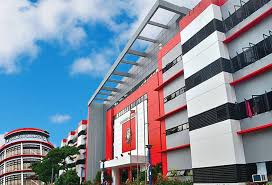
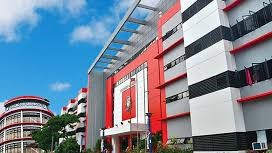
Fix Bannner in About

diff --git a/src/Components/About/Experience.jsx b/src/Components/About/Experience.jsx
@@ -21,27 +21,27 @@ const Experience = ({ work1Pic, work2Pic, className="" }) => {
               isExpanded[0] ? "" : "line-clamp-6"
             }`}
           >
-            <h6 className="font-bold">
+            <h3 className="font-bold">
               Client Service Executive / Implant Technical Support
-            </h6>
+            </h3>
             <p className="font-normal">Vanguard Screening Solution Inc.</p>
             <small className="text-gray-500 mt-1">
               <span className="ri-calendar-2-line mr-2"></span> October 2022 -
               Present
             </small>
-            <h6 className="font-Inter text-[.9rem] font-normal">
+            <p className="font-Inter text-[1rem] font-normal">
               Technical Support –{" "}
               <strong>Vanguard Screening Solutions Inc.</strong>
-            </h6>
-            <p className="font-Inter text-[.9rem] font-normal mt-2">
+            </p>
+            <p className="font-Inter text-[1rem] font-normal mt-2">
               Provided end-to-end technical assistance for candidates completing
               onboarding forms through the <strong>TYDY platform</strong>,
               ensuring a smooth and efficient user experience.
             </p>
-            <p className="font-Inter text-[.9rem] font-normal mt-2">
+            <p className="font-Inter text-[1rem] font-normal mt-2">
               <strong>Key Contributions & Achievements:</strong>
             </p>
-            <ul className="font-Inter text-[.9rem] font-normal mt-2">
+            <ul className="font-Inter text-[1rem] font-normal mt-2">
               <li className="mb-2">
                 Assisted candidates in troubleshooting technical issues.
               </li>
@@ -84,24 +84,24 @@ const Experience = ({ work1Pic, work2Pic, className="" }) => {
               isExpanded[1] ? "" : "line-clamp-6"
             }`}
           >
-            <h6 className="font-bold">Sales Clerk / Stock Crew</h6>
+            <h3 className="font-bold">Sales Clerk / Stock Crew</h3>
             <p className="font-normal">Uno Factory Outlet</p>
             <small className="text-gray-500 mt-1">
               <span className="ri-calendar-2-line mr-2"></span> April 2017 -
               July 2017
             </small>
-            <h6 className="font-Inter text-[.9rem] font-normal">
+            <p className="font-Inter text-[1rem] font-normal">
               Sales Clerk –<strong>Uno Factory Outlet</strong>
-            </h6>
-            <p className="font-Inter text-[.9rem] font-normal mt-2">
+            </p>
+            <p className="font-Inter text-[1rem] font-normal mt-2">
               Delivered excellent customer service while leveraging
               point-of-sale (POS) systems and inventory management tools to
               ensure smooth retail operations.
             </p>
-            <p className="font-Inter text-[.9rem] font-normal mt-2">
+            <p className="font-Inter text-[1rem] font-normal mt-2">
               <strong>Key Contributions & Achievements:</strong>
             </p>
-            <ul className="font-Inter text-[.9rem] font-normal mt-2 gap-2">
+            <ul className="font-Inter text-[1rem] font-normal mt-2 gap-2">
               <li className="mb-2">
                 Assisted customers in finding products by utilizing digital
                 catalog systems.

diff --git a/src/Pages/About.jsx b/src/Pages/About.jsx
@@ -28,23 +28,28 @@ const About = () => {
 
   return (
     <>
-      <div className="flex flex-col items-center w-full min-h-screen mm:px-2">
+      <div className="grid grid-cols grid-rows-[auto_auto] lg:grid-cols-[1fr_400px] lg:gap-2 items-center w-full min-h-screen mm:px-2 overflow-hidden">
+        <div className="flex h-full w-full flex-col">
         <Aboutbanner />
         <div className="grid grid-cols-1 grid-rows-auto w-full mm:mt-2 h-auto bg-white mm:rounded-xl">
           <Aboutme/>
           <ul className="flex w-full pb-4 mt-4 mm:px-4 lg:hidden">
             {buttons.map ((btn, id)=> (
-            <li key={btn.id} onClick={()=> { setIsActive(btn.id)}} className={`mr-2 w-full hover:text-greenFont flex sm:mb-4 cursor-pointer font-medium justify-center text-[1rem] ${active === btn.id ? "border-b-[2px] border-black pb-2" : "none"}`}><span className={`mr-2 ${btn.icon}`}></span>{btn.label}</li>
+            <li key={btn.id} onClick={()=> { setIsActive(btn.id)}} className={`mr-2 w-full hover:text-greenFont flex sm:mb-4 cursor-pointer font-medium justify-center text-[1rem] ${active === btn.id ? "border-b-[2px] border-black pb-2" : "none"}`}>{btn.label}</li>
             ))}
           </ul>
         </div>
+        </div>
 
-            <div className="flex lg:gap-2 justify-center w-full mm:mt-2 rounded-lg h-full">
-              <div className="bg-white rounded-xl">
-             <Education className="hidden lg:flex" tcuPic={tcu} morehPic={moreh}/>
+            <div className="flex  lg:flex-col lg:gap-2 justify-center w-full mm:mt-2 lg:mt-4 rounded-lg h-full">
+              <div className="w-full h-full  flex flex-col bg-white rounded-xl pt-2 hidden lg:flex">
+                <h6 className="font-bold text-[1.22rem] ml-4 mb-2"><span className="ri-book-open-line mr-2"></span>Education</h6>
+             <Education className="" tcuPic={tcu} morehPic={moreh}/>
              </div>
-             <div className="bg-white rounded-xl">
-             <Experience className="hidden lg:flex" work1Pic={VSSI} work2Pic={UNO}/>
+
+             <div className="w-full h-full  flex flex-col bg-white rounded-xl pt-2 hidden lg:flex">
+               <h6 className="font-bold text-[1.22rem] ml-4 mb-2"><span className="ri-computer-line mr-2"></span>Work Experience</h6>
+             <Experience className="" work1Pic={VSSI} work2Pic={UNO}/>
              </div>
               <div className="bg-white w-full h-full rounded-xl lg:hidden">
                 {active === "B" && <Education className="lg:hidden" tcuPic={tcu} morehPic={moreh}/>}

diff --git a/src/Components/About/Education.jsx b/src/Components/About/Education.jsx
@@ -21,17 +21,17 @@ const Education = ({ tcuPic, morehPic, className="" }) => {
           <div
             className={`transition-[0.5s] ${isExpanded[0] ? "" : "line-clamp-6"}`}
           >
-            <h6 className="font-bold">BS Computer Science</h6>
+            <h3 className="font-bold text-[1rem]">BS Computer Science</h3>
             <p className="font-normal">Taguig City University</p>
             <small className="text-gray-500 mt-1">
               <span className="ri-calendar-2-line mr-2"></span> July 2018 -
               August 2022
             </small>
-            <h6 className="font-Inter text-[.9rem] mt-2 font-normal">
+            <p className="font-Inter text-[1rem] mt-2 font-normal">
               I am a graduate of Taguig City University with a <strong>Bachelor of
               Science in Computer Science</strong>, equipped with a strong foundation in
               programming, web development, and problem-solving.
-            </h6>
+            </p>
             <h6 className="font-Inter text-[.9rem] mt-2 font-normal">
              Relevant courses: Website Design, Computer Programing (Java, HTML, CSS, c#), Arduino, Network & Security. 
             </h6>
@@ -55,20 +55,20 @@ const Education = ({ tcuPic, morehPic, className="" }) => {
           <div
             className={`transition-[0.5s] ${isExpanded[1] ? "" : "line-clamp-6"}`}
           >
-            <h6 className="font-bold">
+            <h3 className="font-bold">
               Science Technology Engineering & Mathematics
-            </h6>
+            </h3>
             <p className="font-normal">Moreh Academy Inc.</p>
             <small className="text-gray-500 mt-1">
               <span className="ri-calendar-2-line mr-2"></span> July 2016 - July
               2018
             </small>
-            <h6 className="font-Inter text-[.9rem] mt-2 font-normal">
+            <p className="font-Inter text-[1rem] mt-2 font-normal">
               I graduated from Moreh Academy Inc. under the STEM strand 
               <strong> (Science, Technology, Engineering, and Mathematics)</strong>, where I
               developed a strong analytical mindset and a passion for
               innovation. 
-            </h6>
+            </p>
             <h6 className="font-Inter text-[.9rem] mt-2 font-normal">
              Relevant courses: Genaral Mathematics, Calculus, Creating A Website, PC Assembly & Disaasembly.
             </h6>

diff --git a/src/Components/About/Aboutbanner.jsx b/src/Components/About/Aboutbanner.jsx
@@ -18,18 +18,19 @@ const Aboutbanner = () => {
       useEffect(()=>{
           const interval = setInterval(()=> {
               setCurrent((prev) => (prev + 1) % images.length);
-          }, 4000)
+          }, 8000)
           return ()=> clearInterval(interval);
       },[]);
 
 
   return (
-    <Wrapper className='h-[18rem] sm:h-[25rem] md:h-[30rem] px-2 mm:px-0 mm:mt-4 relative bg-white mm:rounded-xl' h1Class="hidden">
+    <Wrapper className='h-[205px] mm:h-[300px] w-full px-2 mm:px-0 mm:mt-4 relative bg-white mm:rounded-xl' h1Class="hidden">
 
           {images.map ((img, index) => (
-            <div key={index} className={`absolute mx-2 mm:mx-0 right-0 inset-0 bottom-0 rounded-xl bg-no-repeat bg-bottom transition-opacity duration-1000 ease-in-out ${index === current ? "opacity-100" : "opacity-0"}`}
+            <div key={index} className={`absolute mx-2 mm:mx-0 right-0 inset-0 bottom-0 rounded-xl bg-no-repeat bg-center transition-opacity duration-1000 ease-in-out ${index === current ? "opacity-100" : "opacity-0"}`}
             style={{backgroundImage: `url(${img})`,
-                    backgroundSize: "100% 100% 100%",
+                    backgroundSize: "100% 100%",
+                    backgroundAttachment: "scroll",
                     }}/> ))}
         
 

diff --git a/src/Components/About/aboutme.jsx b/src/Components/About/aboutme.jsx
@@ -5,7 +5,8 @@ const aboutme = () => {
 
   return (
     <div className="m-4">
-      <div className={`transition-all ${isExpanded ? "" : "line-clamp-3"}`}>
+      <h6 className="w-full mb-2 text-[1.44rem] mm:text-[1.2rem] font-bold"><span className="ri-user-3-line mr-2"></span>About Me</h6>
+      <div className={`transition-all ${isExpanded ? "" : "line-clamp-3 lg:line-clamp-none"}`}>
         <p className="font-Inter text-[1rem]">
           I'm a Front-End Developer with a designer's eye, turning complex
           requirements into sleek, intuitive Uls using React, Ant Design, MUI,
@@ -23,7 +24,7 @@ const aboutme = () => {
         </p>
       </div>
       <button
-        className="text-blue-500 cursor-pointer hover:underline"
+        className="text-blue-500 cursor-pointer hover:underline lg:hidden"
         onClick={() => setExpanded(!isExpanded)}
       >
         {isExpanded ? "see less" : "see more.."}
